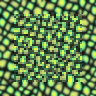
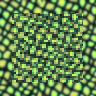
圆形邻域

diff --git a/PointCloudRetouch/OrderIndependentTextureSynthesizer.cpp b/PointCloudRetouch/OrderIndependentTextureSynthesizer.cpp
@@ -16,7 +16,7 @@ auto COrderIndependentTextureSynthesizer/*<Scalar_t, Channel>*/::__buildNeighbor
 	
 	for (int i = -KernelOffset; i <= KernelOffset; ++i)
 		for (int k = -KernelOffset; k <= KernelOffset; ++k)
-			//if (i < 0 || (i == 0 && k < 0))
+			if (std::hypot(i ,k) <= KernelOffset)
 				NeighborOffset.emplace_back(i, k);
 	
 	NeighborOffset.shrink_to_fit();
@@ -35,7 +35,7 @@ void COrderIndependentTextureSynthesizer/*<Scalar_t, Channel>*/::execute(const T
 
 	for (Eigen::Index RowId = 0; RowId < vioScene.rows(); ++RowId)
 		for (Eigen::Index ColId = 0; ColId < vioScene.cols(); ++ColId)
-			if (vMask.coeff(RowId, ColId) != 0)
+			if (vMask.coeff(RowId, ColId))
 				vioScene.coeffRef(RowId, ColId) = __synthesizePixel(m_PyramidLayer - 1, m_GenerationNum - 1, RowId, ColId);
 
 	int Cnt = 0;
@@ -97,7 +97,7 @@ void COrderIndependentTextureSynthesizer/*<Scalar_t, Channel>*/::__decrease(int&
 {
 	if (vioGeneration > 0)
 		--vioGeneration;
-	else
+	else if (vioLayer > 0)
 	{
 		--vioLayer;
 		if (vioLayer == 0)
@@ -128,10 +128,7 @@ auto COrderIndependentTextureSynthesizer/*<Scalar_t, Channel>*/::__getInputAt(in
 auto COrderIndependentTextureSynthesizer/*<Scalar_t, Channel>*/::__getCacheAt(int vLayer, int vGeneration, Eigen::Index vRowId, Eigen::Index vColId) const -> Texture_t::value_type
 {
 	vLayer = std::clamp(vLayer, 0, m_PyramidLayer - 1);
-	if (vLayer == 0)
-		vGeneration = 0;
-	else
-		vGeneration = std::clamp(vGeneration, 0, m_GenerationNum - 1);
+	vGeneration = std::clamp(vGeneration, 0, m_GenerationNum - 1);
 	const auto& Texture = m_Cache[vLayer][vGeneration];
 	
 	__wrap(Texture.rows(), vRowId);
@@ -167,19 +164,19 @@ auto COrderIndependentTextureSynthesizer/*<Scalar_t, Channel>*/::__synthesizePix
 auto COrderIndependentTextureSynthesizer/*<Scalar_t, Channel>*/::__buildOutputFeatureAt(int vLayer, int vGeneration, Eigen::Index vRowId, Eigen::Index vColId) -> Feature_t
 {
 	__decrease(vLayer, vGeneration, vRowId, vColId);
-	
-	Eigen::Matrix<Scalar_t, Eigen::Dynamic, Channel> Feature(m_NeighborOffset.size(), Channel);
-	for (size_t i = 0; i < m_NeighborOffset.size(); i++)
-	{
-		auto RowIdWithOffset = m_NeighborOffset[i].first + vRowId;
-		auto ColIdWithOffset = m_NeighborOffset[i].second + vColId;
 
+	Eigen::Matrix<Scalar_t, Eigen::Dynamic, Channel> Feature(m_NeighborOffset.size(), Channel);
+	for (Eigen::Index It = 0; auto [RowIdWithOffset, ColIdWithOffset] : m_NeighborOffset)
+	{
+		RowIdWithOffset += vRowId;
+		ColIdWithOffset += vColId;
+		
 		auto CacheValue = __getCacheAt(vLayer, vGeneration, RowIdWithOffset, ColIdWithOffset);
 		if (!__isAvailable(CacheValue))
 			CacheValue = __synthesizePixel(vLayer, vGeneration, RowIdWithOffset, ColIdWithOffset);
-		Feature.row(i) = CacheValue;
+		
+		Feature.row(It++) = CacheValue;
 	}
-
 	return Eigen::Map<Feature_t>(Feature.data(), Feature.size());
 }
 
@@ -191,12 +188,12 @@ auto COrderIndependentTextureSynthesizer/*<Scalar_t, Channel>*/::__buildInputFea
 	__decrease(vLayer, vGeneration, vRowId, vColId);
 	
 	Eigen::Matrix<Scalar_t, Eigen::Dynamic, Channel> Feature(m_NeighborOffset.size(), Channel);
-	for (size_t i = 0; i < m_NeighborOffset.size(); i++)
+	for (Eigen::Index It = 0; auto [RowIdWithOffset, ColIdWithOffset] : m_NeighborOffset)
 	{
-		auto RowIdWithOffset = m_NeighborOffset[i].first + vRowId;
-		auto ColIdWithOffset = m_NeighborOffset[i].second + vColId;
+		RowIdWithOffset += vRowId;
+		ColIdWithOffset += vColId;
 
-		Feature.row(i) = __getInputAt(vLayer, RowIdWithOffset, ColIdWithOffset);
+		Feature.row(It++) = __getInputAt(vLayer, RowIdWithOffset, ColIdWithOffset);
 	}
 
 	return Eigen::Map<Feature_t>(Feature.data(), Feature.size());

diff --git a/PointCloudRetouch/OrderIndependentTextureSynthesizer.h b/PointCloudRetouch/OrderIndependentTextureSynthesizer.h
@@ -19,8 +19,8 @@ namespace hiveObliquePhotography::PointCloudRetouch
 		using Feature_t = Eigen::Matrix<Scalar_t, Eigen::Dynamic, 1>;
 		using NeighborOffset_t = std::vector<std::pair<int, int>>;
 		//TODO: magic number
-		int m_KernelSize = 7;
-		int m_GaussianSize = 7;
+		int m_KernelSize = 9;
+		int m_GaussianSize = 9;
 		int m_PyramidLayer = 4;
 		int m_GenerationNum = 3;
 		NeighborOffset_t m_NeighborOffset;
